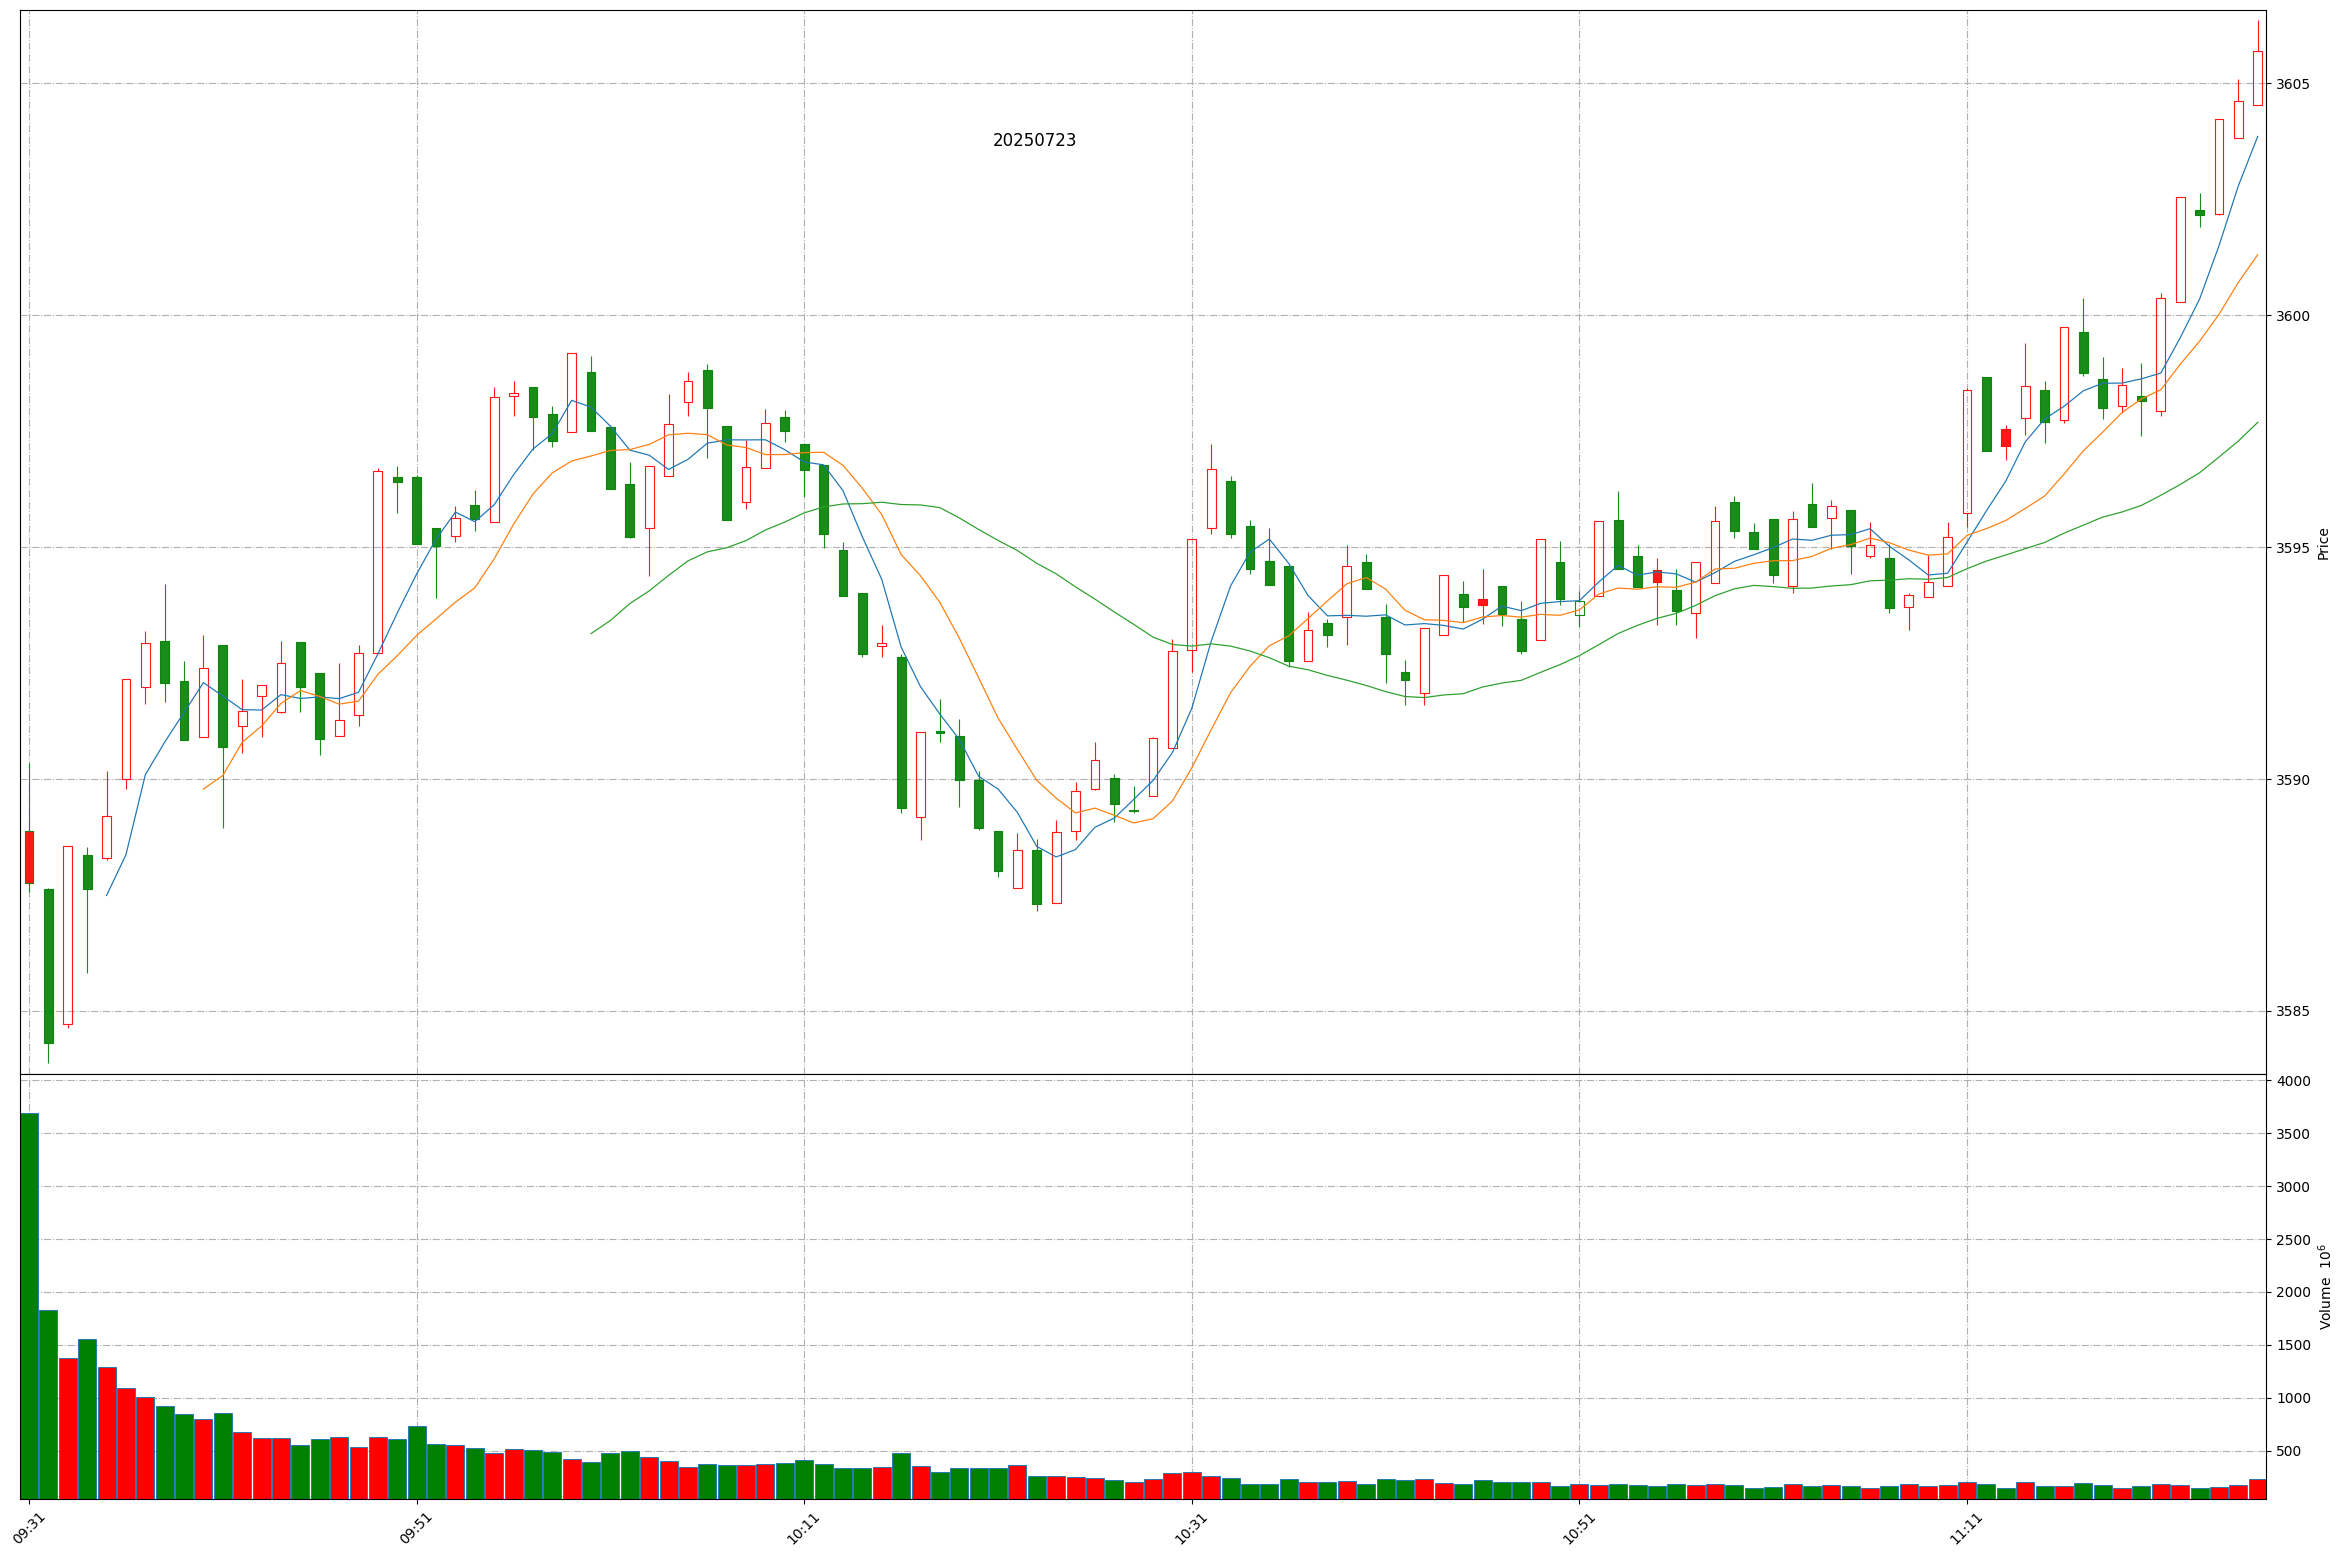
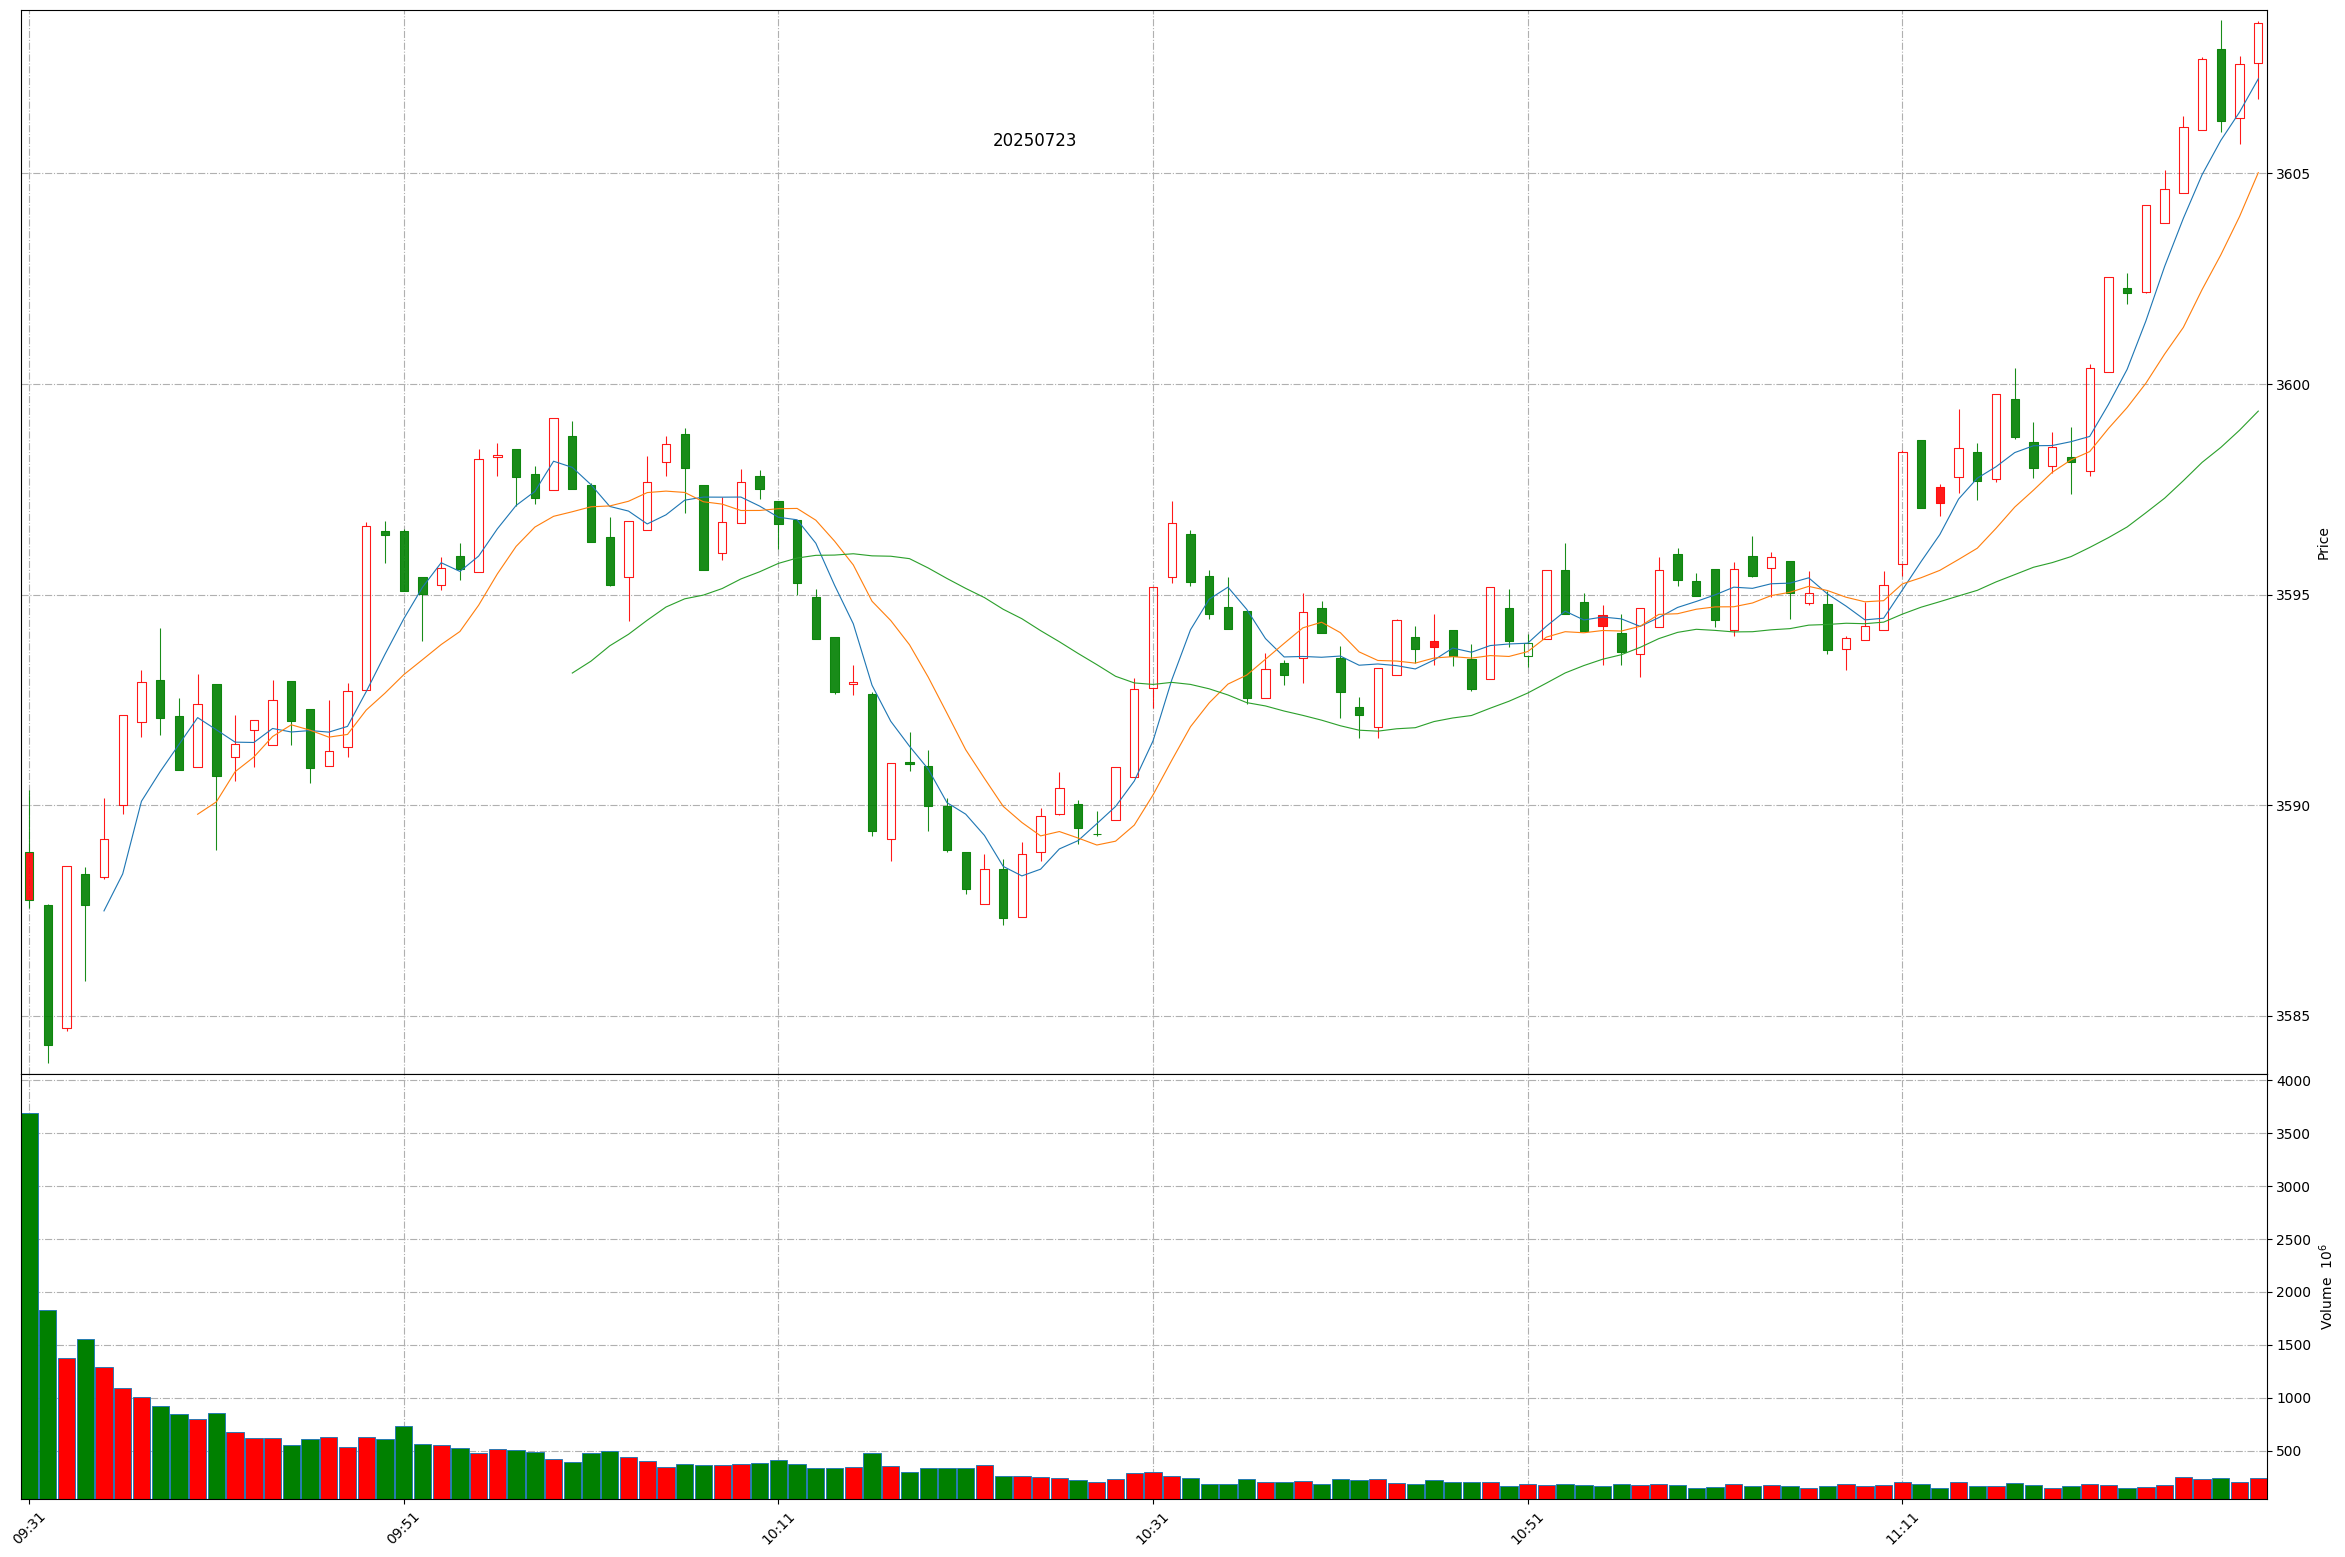
Github action update at 2025-07-23 11:38:51.

diff --git a/README.md b/README.md
@@ -1,11 +1,11 @@
 
 # Daily-A-share-market-quotes 每日 A 股指数（5min 更新）- 20250723
 
-### 上证指数 20250723 11:26
+### 上证指数 20250723 11:38
 ![](./fig/2025/7/20250723-sh000001.png)
 
-### 深证成指 20250723 11:26
+### 深证成指 20250723 11:38
 ![](./fig/2025/7/20250723-sz399001.png)
 
-### 北证50 20250723 11:26
+### 北证50 20250723 11:38
 ![](./fig/2025/7/20250723-bj899050.png)
